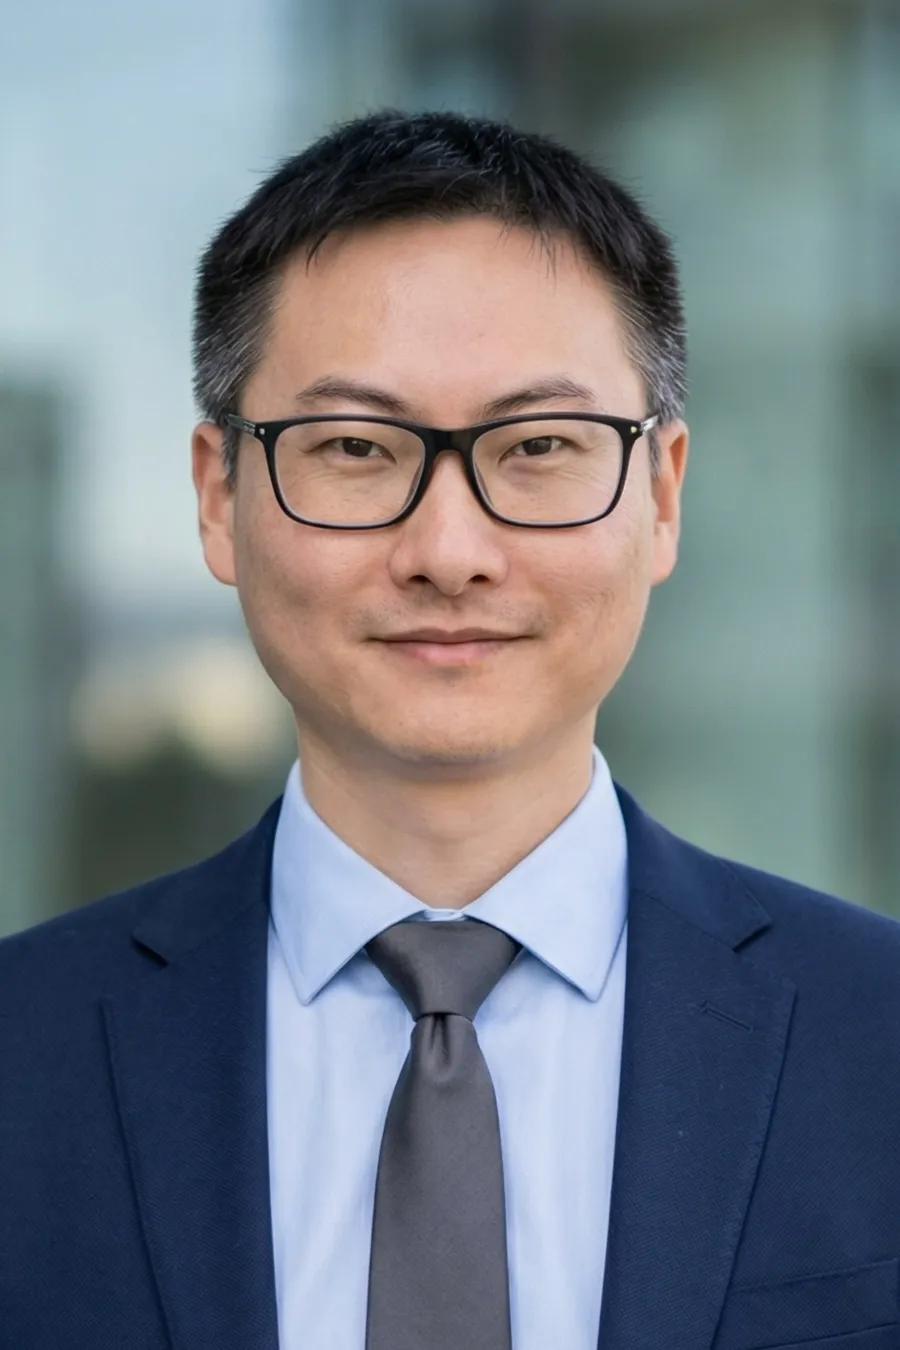
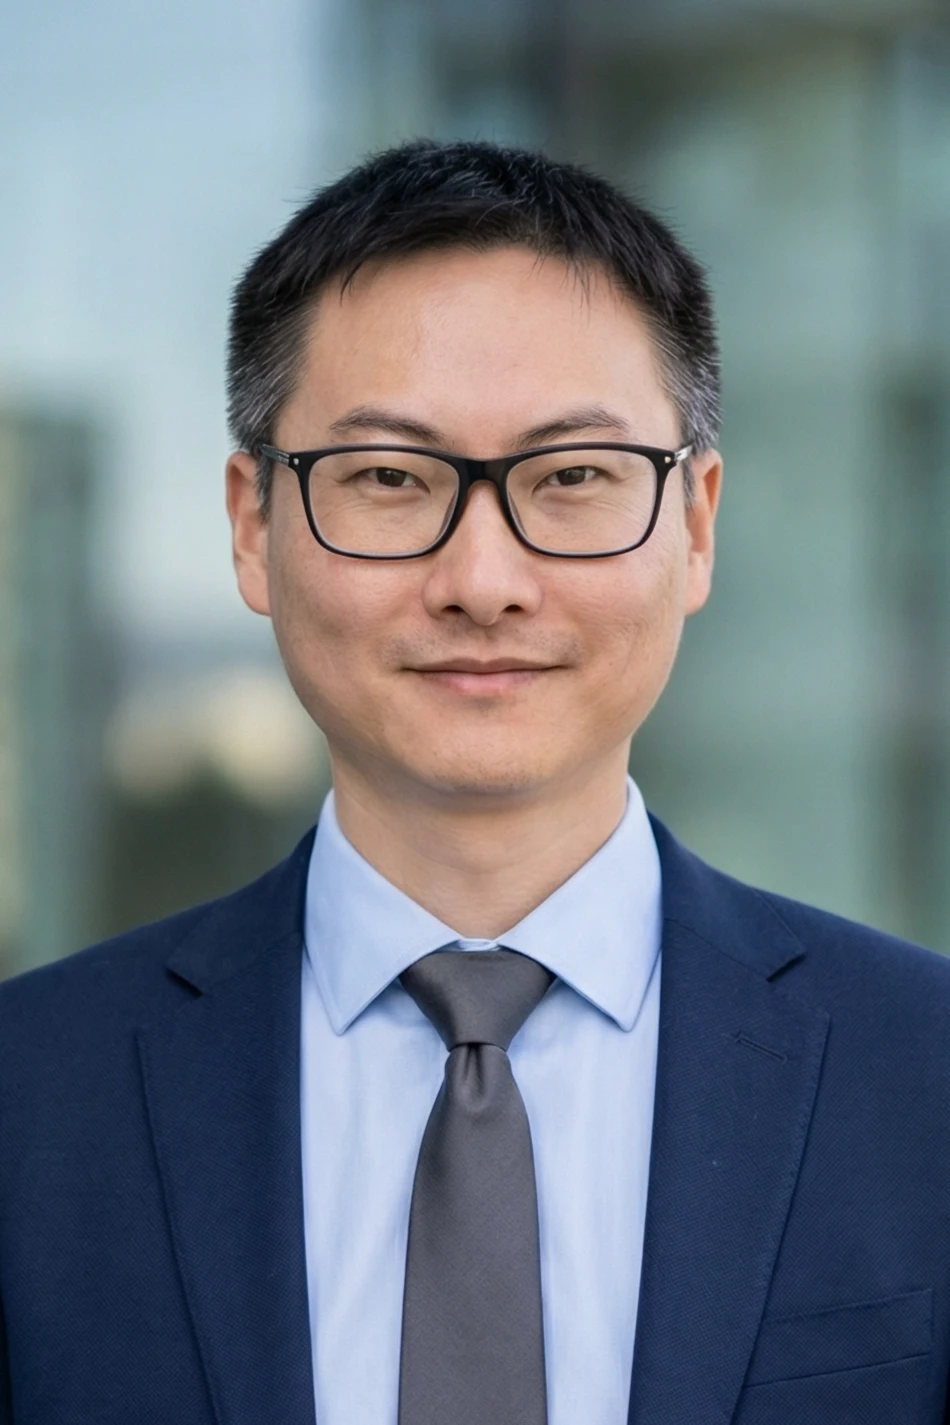
Checkpoint: 将Willard Tian的专业头像替换为新上传的高质量WebP格式照片（49KB）。新照片已上传到S3 CDN，Team.tsx中的图片路径已更新为CDN URL。

diff --git a/client/src/pages/Team.tsx b/client/src/pages/Team.tsx
@@ -53,7 +53,7 @@ const teamMembers: TeamMemberWithTranslation[] = [
     titleEn: "Study and Visa Expert",
     description: "擅长处理各类疑难留学签证及访问签申请，为申请人提供量身定制的学习计划建议。张涛专家拥有丰富的国际教育背景，深刻理解学生的需求和挑战。",
     descriptionEn: "Expert in handling various difficult study visa and visitor visa applications, providing customized study plan recommendations for applicants. Expert Zhang Tao has extensive international education background and deep understanding of students' needs and challenges.",
-    image: "/images/WillardTian-1771925780340.webp",
+    image: "https://files.manuscdn.com/user_upload_by_module/session_file/310519663292376041/gyIWongQAstChsAf.webp",
     position: "left"
   },
   {
